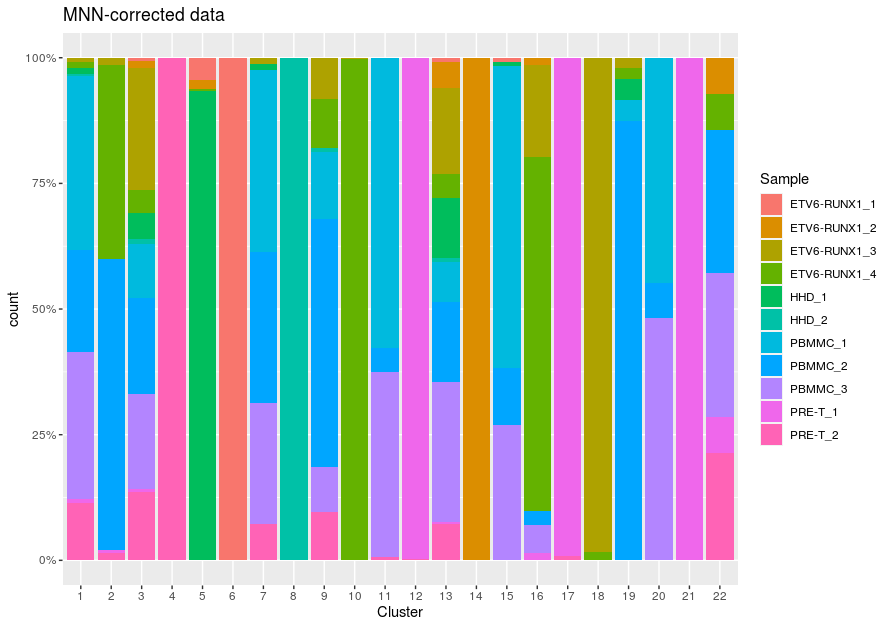
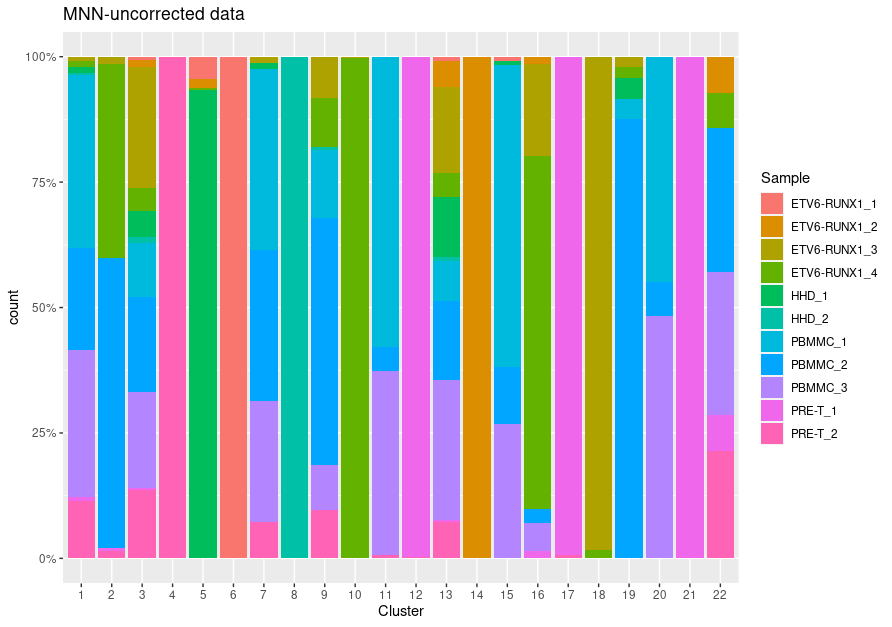
MNN-corrected updated to MNN-uncorrected

diff --git a/docs/episodes/6.md b/docs/episodes/6.md
@@ -416,7 +416,7 @@ This clustering serves as a proxy for the population structure. So, if the batch
         data.frame(Cluster = sce_all$cluster_uncorrected, Sample = sce_all$SampleName) %>%
           ggplot(aes(x = Cluster)) +
             geom_bar(aes(fill = Sample), position = "fill") +
-            labs(title = "MNN-corrected data") +
+            labs(title = "MNN-uncorrected data") +
           scale_y_continuous(labels = scales::percent)
         ```
         ![image](../r_images/49-batchcorrect-mixbetween-uncorrected.png)
